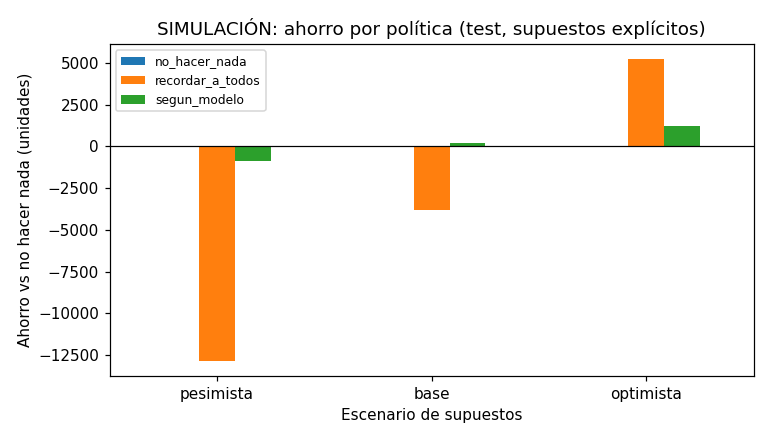
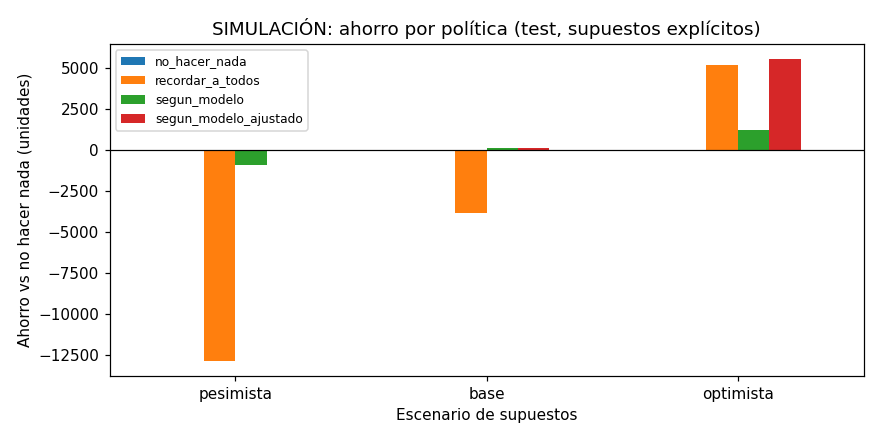
docs: impacto con umbrales ajustados por escenario

diff --git a/README.md b/README.md
@@ -344,23 +344,27 @@ make impact   # -> reports/impact.md, reports/impact.json, reports/figures/impac
 
 > **Esto es una simulación, no un resultado real.** Los efectos de los recordatorios son supuestos configurables (`ImpactConfig`) y no se estimaron con datos. Como referencia no causal: en el EDA, dentro de cada tramo de antelación, las citas con SMS tuvieron entre 10 % y 25 % menos no-show relativo.
 
-Se usaron las 17.344 citas de test, con su resultado observado (4.509 no-shows), y los costos de la Fase 3 (hueco 20, estándar 1, reforzado 3). Los umbrales del modelo quedan fijos en los desplegados.
+Se usaron las 17.344 citas de test, con su resultado observado (4.509 no-shows), y los costos de la Fase 3 (hueco 20, estándar 1, reforzado 3). Hay cuatro políticas: no hacer nada, recordar a todos, **según el modelo** con los umbrales desplegados (fijos en 0,36 / 0,67) y **según el modelo ajustado**. En esta última los umbrales se re-optimizan **en validación** con los supuestos de cada escenario y luego se evalúan en test; test nunca participa en elegirlos.
 
-| Escenario (efecto estándar / reforzado) | Política | Recordatorios | No-shows evitados (esperados) | Evitados por 100 recordatorios | Ahorro vs no hacer nada |
-|---|---|---|---|---|---|
-| Pesimista (5 % / 10 %) | Recordar a todos | 17.344 | 225,5 | 1,3 | −12.835 |
-| | Según el modelo | 1.420 | 26,6 | 1,9 | −888 |
-| Base (15 % / 30 %) | Recordar a todos | 17.344 | 676,3 | 3,9 | −3.817 |
-| | Según el modelo | 1.420 | 79,8 | 5,6 | **+176** |
-| Optimista (25 % / 45 %) | Recordar a todos | 17.344 | 1.127,2 | 6,5 | **+5.201** |
-| | Según el modelo | 1.420 | 133,0 | 9,4 | +1.240 |
+| Escenario (efecto estándar / reforzado) | Política | Umbrales | Recordatorios | No-shows evitados (esperados) | Evitados por 100 recordatorios | Ahorro vs no hacer nada |
+|---|---|---|---|---|---|---|
+| Pesimista (5 % / 10 %) | Recordar a todos | - | 17.344 | 225,5 | 1,3 | −12.835 |
+| | Modelo, umbrales fijos | 0,36 / 0,67 | 1.420 | 26,6 | 1,9 | −888 |
+| | Modelo, umbrales ajustados | 1,00 / 1,00 | 0 | 0 | - | **0** |
+| Base (15 % / 30 %) | Recordar a todos | - | 17.344 | 676,3 | 3,9 | −3.817 |
+| | Modelo, umbrales fijos | 0,36 / 0,67 | 1.420 | 79,8 | 5,6 | **+176** |
+| | Modelo, umbrales ajustados | 0,36 / 0,67 | 1.420 | 79,8 | 5,6 | **+176** |
+| Optimista (25 % / 45 %) | Recordar a todos | - | 17.344 | 1.127,2 | 6,5 | +5.201 |
+| | Modelo, umbrales fijos | 0,36 / 0,67 | 1.420 | 133,0 | 9,4 | +1.240 |
+| | Modelo, umbrales ajustados | 0,19 / 0,45 | 15.167 (61 reforzados) | 1.041,8 | 6,9 | **+5.548** |
 
 ![Impacto](reports/figures/impact.png)
 
 Lectura honesta:
-- **El modelo focaliza mejor.** Por cada 100 recordatorios evita un 44 % más de no-shows que recordar a todos (5,6 contra 3,9 en el escenario base), porque su precisión es de 0,375 contra una prevalencia de 0,26.
-- **El modelo solo gana en el escenario base**, que es para el que se eligieron sus umbrales, y ahí el ahorro es pequeño: 176 unidades, un 0,2 % del costo de no hacer nada.
-- **Si el recordatorio fuera más efectivo** (escenario optimista), recordar a todos sería mejor que la política del modelo con los umbrales actuales. Con un efecto del 25 %, el umbral óptimo bajaría a 1 / (20 × 0,25) = 0,20.
-- **Si fuera menos efectivo** (escenario pesimista), recordar pierde dinero con cualquier política.
-- **El recordatorio reforzado no se activa en test**, porque ninguna probabilidad llega a 0,67.
-- **La conclusión depende más de los supuestos que del modelo.** Antes de desplegar, lo más valioso sería medir el efecto real del recordatorio con un experimento aleatorizado, y después fijar los umbrales.
+- **Con umbrales ajustados al supuesto, el modelo iguala o supera a las alternativas en los tres escenarios.**
+  - En el pesimista, la decisión óptima es no recordar a nadie. Con un efecto del 5 % el umbral analítico es 1 / (20 × 0,05) = 1,0.
+  - En el base, coincide con la política desplegada.
+  - En el optimista, supera a recordar a todos (+5.548 contra +5.201) enviando 2.177 recordatorios menos. Aquí aparece por primera vez el recordatorio reforzado (61 citas).
+- **Con los umbrales fijos, el modelo solo gana en el escenario base**, y ahí el ahorro es pequeño: 176 unidades, un 0,2 % del costo de no hacer nada.
+- **El modelo focaliza mejor que recordar a todos:** 5,6 no-shows evitados por cada 100 recordatorios en el escenario base, contra 3,9.
+- **La conclusión depende sobre todo del efecto real del recordatorio**, que nadie midió. El modelo aporta la priorización. El umbral correcto solo se puede fijar después de medir ese efecto, idealmente con un experimento aleatorizado.

diff --git a/reports/impact.md b/reports/impact.md
@@ -18,16 +18,22 @@ Como referencia no causal: en el EDA, dentro de cada tramo de antelación, las c
 
 ## Resultados
 
-| Escenario | Política | Recordatorios | No-shows evitados (esperados) | Evitados por 100 recordatorios | Costo total | Ahorro vs no hacer nada |
-|---|---|---|---|---|---|---|
-| pesimista | no_hacer_nada | 0 | 0,0 de 4.509 | 0,0 | 90.180 | 0 |
-| pesimista | recordar_a_todos | 17.344 | 225,5 de 4.509 | 1,3 | 103.015 | -12.835 |
-| pesimista | segun_modelo | 1.420 | 26,6 de 4.509 | 1,9 | 91.068 | -888 |
-| base | no_hacer_nada | 0 | 0,0 de 4.509 | 0,0 | 90.180 | 0 |
-| base | recordar_a_todos | 17.344 | 676,3 de 4.509 | 3,9 | 93.997 | -3.817 |
-| base | segun_modelo | 1.420 | 79,8 de 4.509 | 5,6 | 90.004 | 176 |
-| optimista | no_hacer_nada | 0 | 0,0 de 4.509 | 0,0 | 90.180 | 0 |
-| optimista | recordar_a_todos | 17.344 | 1.127,2 de 4.509 | 6,5 | 84.979 | 5.201 |
-| optimista | segun_modelo | 1.420 | 133,0 de 4.509 | 9,4 | 88.940 | 1.240 |
+- `segun_modelo`: umbrales desplegados, fijos en todos los escenarios.
+- `segun_modelo_ajustado`: umbrales re-optimizados **en validación** con los supuestos de cada escenario, evaluados en test. Responde si el modelo aporta cuando los umbrales se adaptan al efecto supuesto.
+
+| Escenario | Política | Umbrales (estándar / reforzado) | Recordatorios | No-shows evitados (esperados) | Evitados por 100 recordatorios | Costo total | Ahorro vs no hacer nada |
+|---|---|---|---|---|---|---|---|
+| pesimista | no_hacer_nada | - | 0 | 0,0 de 4.509 | 0,0 | 90.180 | 0 |
+| pesimista | recordar_a_todos | - | 17.344 | 225,5 de 4.509 | 1,3 | 103.015 | -12.835 |
+| pesimista | segun_modelo | 0,36 / 0,67 | 1.420 | 26,6 de 4.509 | 1,9 | 91.068 | -888 |
+| pesimista | segun_modelo_ajustado | 1,00 / 1,00 | 0 | 0,0 de 4.509 | 0,0 | 90.180 | 0 |
+| base | no_hacer_nada | - | 0 | 0,0 de 4.509 | 0,0 | 90.180 | 0 |
+| base | recordar_a_todos | - | 17.344 | 676,3 de 4.509 | 3,9 | 93.997 | -3.817 |
+| base | segun_modelo | 0,36 / 0,67 | 1.420 | 79,8 de 4.509 | 5,6 | 90.004 | 176 |
+| base | segun_modelo_ajustado | 0,36 / 0,67 | 1.420 | 79,8 de 4.509 | 5,6 | 90.004 | 176 |
+| optimista | no_hacer_nada | - | 0 | 0,0 de 4.509 | 0,0 | 90.180 | 0 |
+| optimista | recordar_a_todos | - | 17.344 | 1.127,2 de 4.509 | 6,5 | 84.979 | 5.201 |
+| optimista | segun_modelo | 0,36 / 0,67 | 1.420 | 133,0 de 4.509 | 9,4 | 88.940 | 1.240 |
+| optimista | segun_modelo_ajustado | 0,19 / 0,45 | 15.167 | 1.041,8 de 4.509 | 6,9 | 84.632 | 5.548 |
 
 ![Impacto simulado](figures/impact.png)
